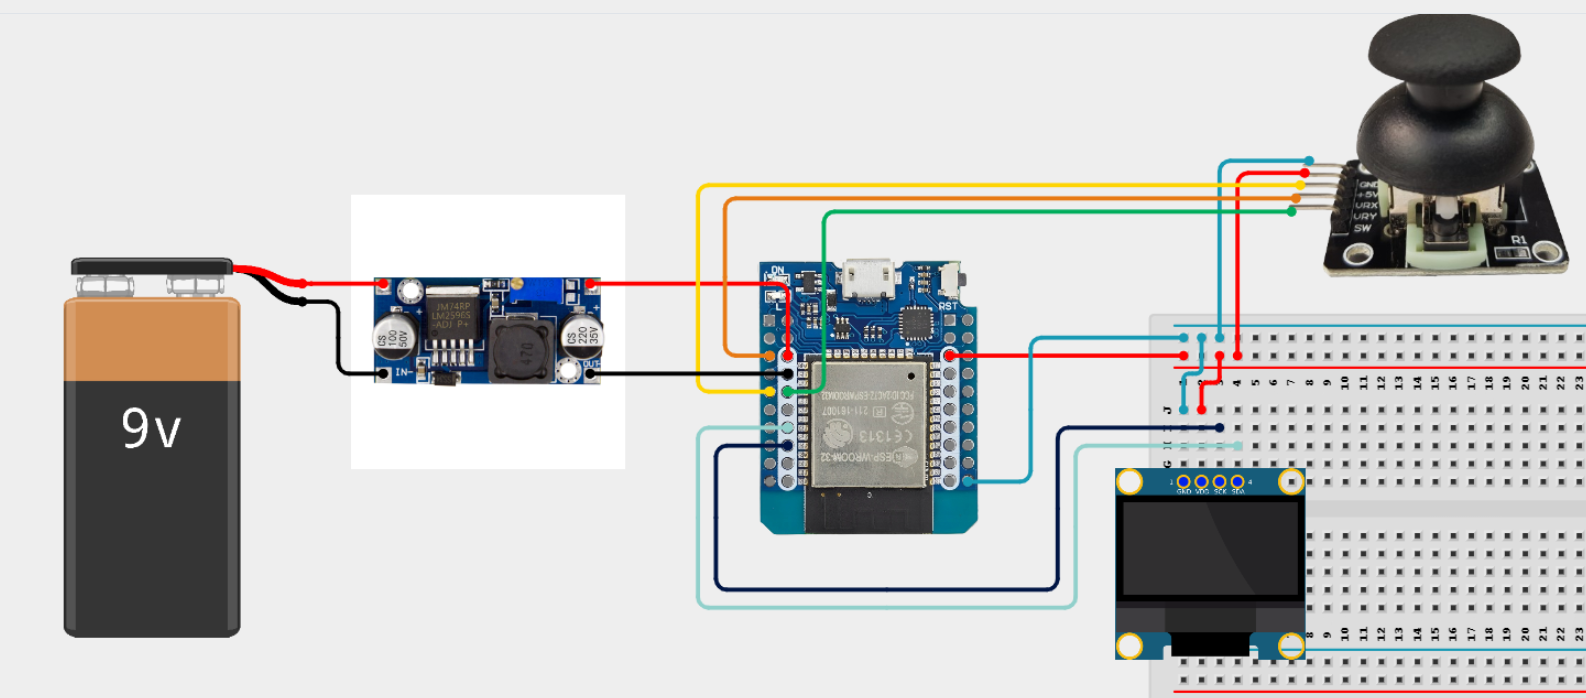
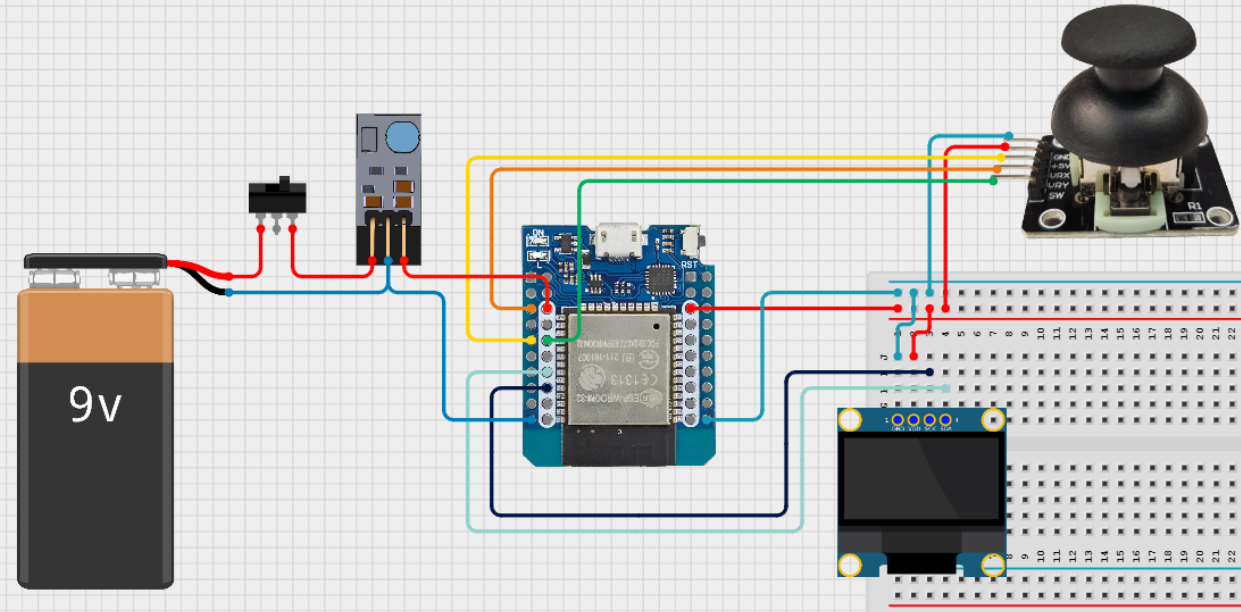
added schematics for breadboard and perfboard

Changed region(s): [[0.0, 0.0, 1.0, 0.9935], [0.9492, 0.031, 0.9799, 0.0931]]

diff --git a/README.md b/README.md
@@ -5,7 +5,8 @@ In this repository you can find all the material required to build a DIY console
 - code for ESP32
 - schematic diagram of the circuit on breadboard
     https://app.cirkitdesigner.com/project/0857a7c8-4681-452b-a24f-5374fa44a8b1
-- schematic diagram of the circuit to weld on matrix board
+- schematic diagram of the circuit to weld on matrix board ("PCB")
+    https://app.cirkitdesigner.com/project/fdfa9b3a-22b1-4d85-bbf5-8aa331098814
 - stl file for 3D printing the case
 
 ## Components required to make your own
